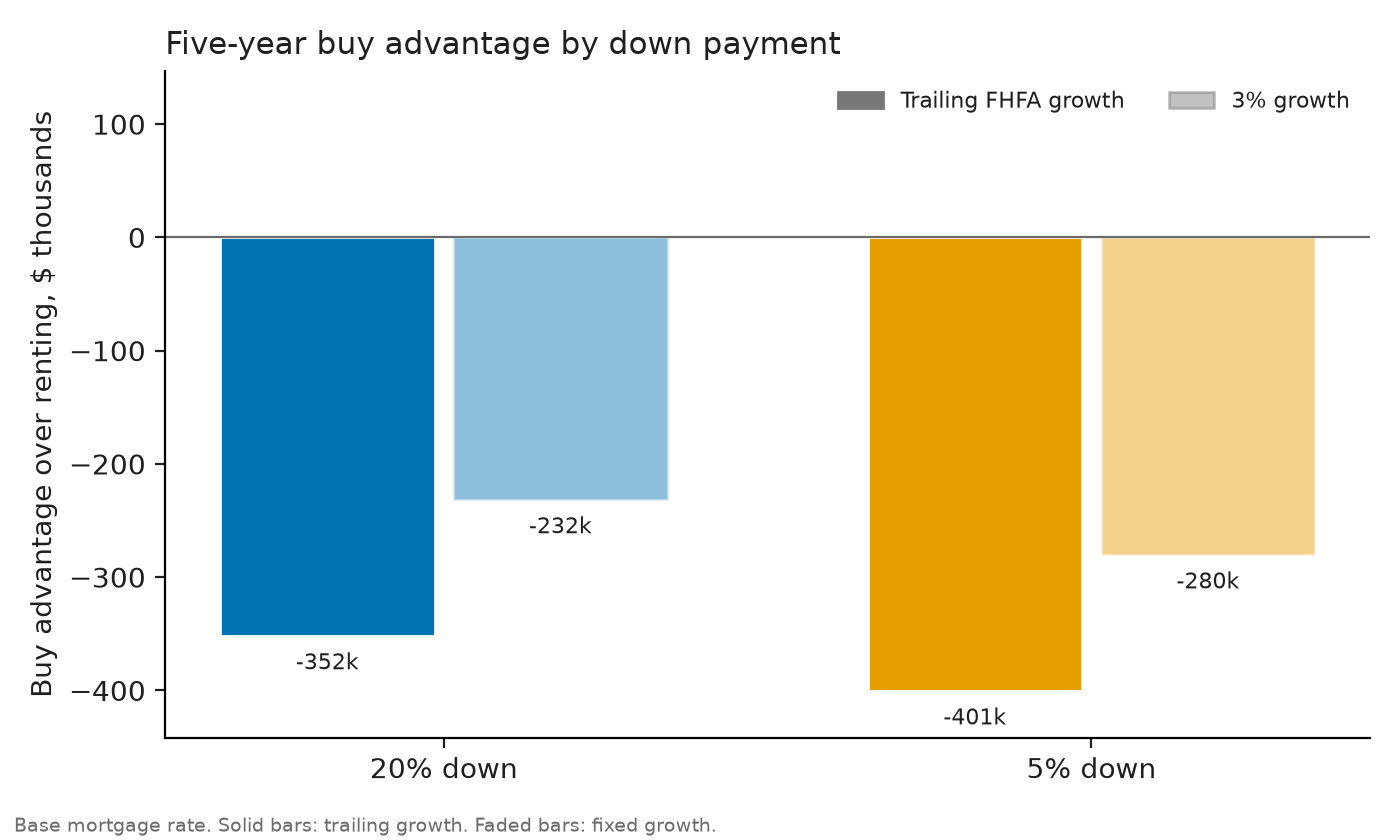
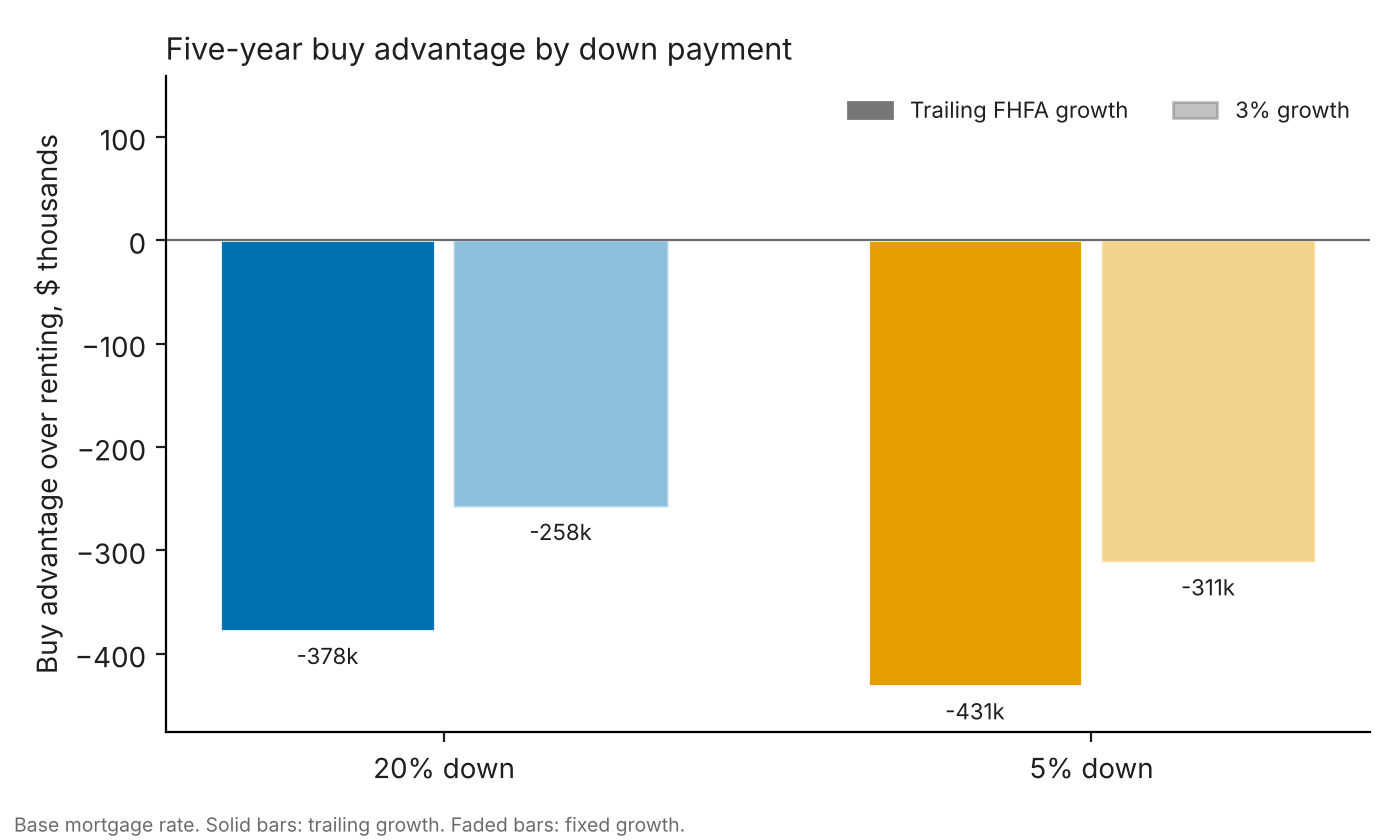
Update memo to Nov 2026 mortgage rate; add rate fetcher and config
- Replace the 6.5% placeholder with Freddie Mac PMMS 30-year rate of 7.18%
  (week of 2026-11-05). Buying trails renting by ~$378k (20% down) and ~$431k
  (5% down); break-even growth 8.4% and 9.4%.
- Regenerate figures and sensitivity grids at the new rate.
- Add src/fetch_rates.py with tests on a fixture; live file not yet checked.
- Add config/household.yaml and config/metros.yaml (documentation; not read by code yet).
- Update README status and structure; list known gaps.

Claude-Session: https://claude.ai/code/session_019DYqhwgPMDWcjLxNAEEHVK

diff --git a/src/fetch_rates.py b/src/fetch_rates.py
@@ -1,0 +1,99 @@
+"""Fetch the latest 30-year fixed mortgage rate from Freddie Mac's Primary Mortgage Market Survey.
+
+The survey is national and weekly. The rate is returned as an annual decimal (0.0718 for 7.18%),
+which is the form model.py expects.
+
+Usage:
+    python src/fetch_rates.py                       # downloads the PMMS history file
+    python src/fetch_rates.py --csv PMMS_history.csv  # reads a file you already saved
+
+Writes data/raw/pmms_30yr_latest.json. The raw directory is gitignored.
+
+Caveat: the parser assumes the history CSV has a date column and a 30-year rate column
+(a header containing "30"). It is unit-tested on a fixture. It has not been checked
+against the live file in this environment.
+"""
+
+from __future__ import annotations
+
+import argparse
+import csv
+import json
+from datetime import datetime
+from pathlib import Path
+from typing import Iterable
+
+PMMS_HISTORY_URL = "https://www.freddiemac.com/pmms/docs/PMMS_history.csv"
+OUT_PATH = Path(__file__).resolve().parents[1] / "data" / "raw" / "pmms_30yr_latest.json"
+
+
+def _find_column(header: list[str], predicate) -> int:
+    for i, name in enumerate(header):
+        if predicate(name.strip().lower()):
+            return i
+    raise ValueError(f"no matching column in header: {header}")
+
+
+def _parse_date(raw: str) -> datetime:
+    raw = raw.strip()
+    for fmt in ("%Y-%m-%d", "%m/%d/%Y", "%m/%d/%y"):
+        try:
+            return datetime.strptime(raw, fmt)
+        except ValueError:
+            continue
+    raise ValueError(f"unrecognized date: {raw!r}")
+
+
+def latest_30yr(lines: Iterable[str]) -> dict:
+    """Return {'date': 'YYYY-MM-DD', 'rate': annual decimal} for the most recent 30-year reading."""
+    reader = csv.reader(lines)
+    header = next(reader)
+    date_col = _find_column(header, lambda n: n.startswith("date") or n == "week")
+    rate_col = _find_column(header, lambda n: "30" in n and ("rate" in n or "fixed" in n or "y" in n))
+
+    best_date, best_rate = None, None
+    for row in reader:
+        if len(row) <= max(date_col, rate_col) or not row[rate_col].strip():
+            continue
+        try:
+            rate = float(row[rate_col]) / 100.0
+            date = _parse_date(row[date_col])
+        except ValueError:
+            continue
+        if best_date is None or date > best_date:
+            best_date, best_rate = date, rate
+
+    if best_date is None:
+        raise ValueError("no 30-year rate readings found")
+    return {"date": best_date.strftime("%Y-%m-%d"), "rate": best_rate, "series": "30-year fixed, PMMS"}
+
+
+def fetch_lines(url: str, timeout: int = 60) -> list[str]:
+    import requests
+
+    resp = requests.get(url, timeout=timeout)
+    resp.raise_for_status()
+    return resp.text.splitlines()
+
+
+def main(argv: list[str] | None = None) -> None:
+    parser = argparse.ArgumentParser(description=__doc__, formatter_class=argparse.RawDescriptionHelpFormatter)
+    parser.add_argument("--csv", type=Path, help="local PMMS history CSV (skips the download)")
+    parser.add_argument("--url", default=PMMS_HISTORY_URL, help="PMMS history CSV URL")
+    parser.add_argument("--out", type=Path, default=OUT_PATH)
+    args = parser.parse_args(argv)
+
+    if args.csv:
+        lines = args.csv.read_text().splitlines()
+    else:
+        lines = fetch_lines(args.url)
+
+    result = latest_30yr(lines)
+    args.out.parent.mkdir(parents=True, exist_ok=True)
+    args.out.write_text(json.dumps(result, indent=2))
+    print(f"30-year fixed rate as of {result['date']}: {result['rate']:.2%}")
+    print(f"wrote {args.out}")
+
+
+if __name__ == "__main__":
+    main()

diff --git a/tests/test_fetch_rates.py b/tests/test_fetch_rates.py
@@ -1,0 +1,42 @@
+import sys
+from pathlib import Path
+
+import pytest
+
+sys.path.insert(0, str(Path(__file__).resolve().parents[1] / "src"))
+
+from fetch_rates import latest_30yr  # noqa: E402
+
+FIXTURE = [
+    "Date,30Y Rate,15Y Rate",
+    "2026-10-22,7.32,6.82",
+    "2026-10-29,7.24,6.60",
+    "2026-11-05,7.18,6.57",
+    "2026-10-15,,6.50",
+]
+
+
+def test_returns_latest_30yr_rate_as_decimal():
+    result = latest_30yr(FIXTURE)
+    assert result["date"] == "2026-11-05"
+    assert result["rate"] == pytest.approx(0.0718)
+
+
+def test_ignores_blank_rate_rows_and_unsorted_input():
+    shuffled = [FIXTURE[0], FIXTURE[3], FIXTURE[2], FIXTURE[1]]
+    assert latest_30yr(shuffled)["date"] == "2026-11-05"
+
+
+def test_accepts_slash_dates():
+    lines = ["Week,30-Year Fixed Rate", "11/05/2026,7.18", "10/29/2026,7.24"]
+    assert latest_30yr(lines)["date"] == "2026-11-05"
+
+
+def test_raises_when_no_30yr_column():
+    with pytest.raises(ValueError):
+        latest_30yr(["Date,15Y Rate", "2026-11-05,6.57"])
+
+
+def test_raises_when_no_readings():
+    with pytest.raises(ValueError):
+        latest_30yr(["Date,30Y Rate", "2026-11-05,"])

diff --git a/README.md b/README.md
@@ -2,7 +2,7 @@
 
 A portfolio project: a decision memo that frames a decision, weighs options with public data, and recommends one.
 
-**Status:** scoping. No code yet.
+**Status:** Los Angeles County is modeled and drafted in `memo/memo.md`, using the Freddie Mac rate for the week of November 5, 2026 (7.18%). The memo is a draft. Washington DC, Chicago, and New York are not started.
 
 ## Decision question
 
@@ -11,6 +11,10 @@ Over a five-year horizon, should a household earning $120,000 a year in a given 
 - **Options:** (A) rent a comparable unit; (B) buy at the metro's median price with 20% down; (C) buy with 5% down, which adds mortgage insurance and a higher rate.
 - **Criteria:** net cost over five years, cash needed up front, sensitivity to rates and price growth, and flexibility if the household has to move.
 - **Recommendation:** choose one option per metro, state the break-even conditions, and show how the answer changes under plausible ranges.
+
+## Result so far (Los Angeles County)
+
+At 7.18%, renting comes out ahead by about $378,000 over five years with 20% down, and about $431,000 with 5% down. Buying would need about 8.4% a year price growth (20% down) to break even, against trailing growth of 0.02%. Details and limitations are in the memo.
 
 ## Assumptions
 
@@ -22,7 +26,7 @@ Over a five-year horizon, should a household earning $120,000 a year in a given 
 
 - **ACS (Census):** median home value and median gross rent by county.
 - **FHFA House Price Index:** purchase-only quarterly price trends by metropolitan division.
-- **Freddie Mac PMMS:** weekly mortgage rates.
+- **Freddie Mac PMMS:** weekly mortgage rates. `src/fetch_rates.py` reads the latest 30-year rate.
 
 ## Metros and geographies
 
@@ -35,32 +39,44 @@ Each metro uses one geography for both sources, so the price trend and the home 
 | Chicago | 16984, Chicago-Naperville-Evanston (MSAD) | TBD |
 | New York | TBD | TBD |
 
-FHFA publishes the large metros as metropolitan divisions, so its IDs don't match the CBSA codes. The Chicago division ID above is from FHFA's series list, not the CBSA code (16980). Confirm each ID and county list against the Census delineation file before use.
+FHFA publishes the large metros as metropolitan divisions, so its IDs don't match the CBSA codes. The Chicago division ID above is from FHFA's series list, not the CBSA code (16980). Confirm each ID and county list against the Census delineation file before use. `config/metros.yaml` holds the same table.
 
-## Planned structure
+## Structure
 
 ```
 decision-memo/
 ├── README.md
 ├── config/
-│   ├── household.yaml      # income, down payment, loan terms
-│   └── metros.yaml         # CBSA codes and names
+│   ├── household.yaml      # income, down payments, loan terms, rate, labeled assumptions (documentation; not read by code yet)
+│   └── metros.yaml         # metro geographies (documentation; not read by code yet)
 ├── data/
 │   ├── raw/                # downloads, gitignored
-│   └── processed/
+│   └── processed/          # sensitivity grids
 ├── src/
-│   ├── fetch_acs.py
-│   ├── fetch_fhfa.py
-│   ├── fetch_rates.py
+│   ├── fetch_acs.py        # ACS median value and rent
+│   ├── fetch_fhfa.py       # FHFA metro price index
+│   ├── fetch_rates.py      # latest Freddie Mac 30-year rate
 │   ├── model.py            # rent vs buy cost model
 │   ├── sensitivity.py
 │   └── figures.py
 ├── tests/
-│   └── test_model.py
+│   ├── test_fetch_acs.py
+│   ├── test_fetch_fhfa.py
+│   ├── test_fetch_rates.py
+│   ├── test_model.py
+│   └── test_sensitivity.py
 └── memo/
     ├── memo.md
     └── figures/
 ```
+
+The model and figure scripts take the mortgage rate and file paths as command-line arguments. `config/` is not read yet. Wiring it in is a follow-up.
+
+## Known gaps
+
+- `fetch_rates.py` parses a PMMS history CSV and is covered by tests on a fixture. It has not been run against the live Freddie Mac file.
+- The memo's Los Angeles inputs (ACS values and the FHFA growth figure) are stated in the memo. Re-fetch them with the scripts above before the memo is published.
+- The DC, Chicago, and New York metros are not modeled.
 
 ## Memo outline
 
@@ -74,12 +90,6 @@ decision-memo/
 
 Figures: (1) five-year net cost by option for each metro; (2) break-even heatmap of price growth against mortgage rate.
 
-## Plan (three weekends)
-
-- **Weekend 1:** config, the LA data pipeline, and the core cost model with tests.
-- **Weekend 2:** sensitivity analysis, the other three metros, and both figures.
-- **Weekend 3:** memo writing, the recommendation, and README cleanup.
-
 ## Stack
 
-Python, with pandas for data work, requests for the Census API, and matplotlib for figures.
+Python, with requests for the Census, FHFA, and Freddie Mac downloads, and matplotlib for figures. Tests run with pytest.

diff --git a/memo/memo.md b/memo/memo.md
@@ -1,10 +1,10 @@
 # Rent or buy in Los Angeles County: a five-year decision
 
-**Status:** draft. The mortgage rate in this memo is a placeholder and must be replaced before publishing.
+**Status:** draft. Mortgage rate is the Freddie Mac Primary Mortgage Market Survey average for the week of November 5, 2026 (7.18%). Re-check the latest weekly rate before publishing.
 
 ## Recommendation
 
-For a household earning $120,000 a year in Los Angeles County, renting is the better choice over five years. At the median home value and the 6.5% placeholder mortgage rate, buying trails renting by about $352,000 with 20% down and about $401,000 with 5% down. Buying would only break even if home prices rose about 7.9% a year with 20% down, or 8.8% with 5% down. The county's trailing one-year price growth is 0.02%.
+For a household earning $120,000 a year in Los Angeles County, renting is the better choice over five years. At the median home value and the 7.18% mortgage rate, buying trails renting by about $378,000 with 20% down and about $431,000 with 5% down. Buying would only break even if home prices rose about 8.4% a year with 20% down, or 9.4% with 5% down. The county's trailing one-year price growth is 0.02%.
 
 The result holds across the rate range tested. Break-even growth with 20% down runs from 6.8% to 9.0% as rates move from 5% to 8%, and with 5% down from 7.6% to 10.1%.
 
@@ -22,18 +22,18 @@ Criteria: net cost over five years, cash needed up front, sensitivity to mortgag
 
 - **Home value and rent:** 2024 ACS 1-year estimates for Los Angeles County. Median home value is $866,500 and median gross rent is $2,003 a month.
 - **Price growth:** FHFA purchase-only quarterly index for Los Angeles-Long Beach-Glendale (division 31084). Trailing one-year growth is 0.02%.
-- **Mortgage rate:** 6.5%, placeholder. [Replace with the current Freddie Mac Primary Mortgage Market Survey rate.]
+- **Mortgage rate:** 7.18%, the 30-year fixed average in Freddie Mac's Primary Mortgage Market Survey for November 5, 2026. The survey is national and is used for every metro.
 - **Labeled assumptions:** property tax 1.1% of value a year, insurance 0.35%, maintenance 1%, buyer closing costs 3%, seller costs 6%, PMI 0.75% a year when down payment is under 20%, rent growth 3% a year, and a 4.5% return on invested cash.
 
 The renter invests the cash the buyer would have spent up front, along with any monthly difference between owner costs and rent. Both paths are compared at the end of five years.
 
 ## Results
 
-At the base case, the first-month owner cost is about $6,150 with 20% down, which is 62% of gross monthly income. With 5% down it is about $7,490, or 75%. Both exceed the 28% rule of thumb used for the affordability check. Renting costs $2,003, or about 20% of gross income.
+At the base case, the first-month owner cost is about $6,465 with 20% down, which is 65% of gross monthly income. With 5% down it is about $7,860, or 79%. Both exceed the 28% rule of thumb used for the affordability check. Renting costs $2,003, or about 20% of gross income.
 
 ![Five-year buy advantage by down payment](figures/fig1_buy_advantage_by_down.png)
 
-*Figure 1. Buy advantage over renting, at the base mortgage rate. Solid bars use trailing growth. Faded bars assume 3% growth, under which buying still trails by about $232,000 with 20% down.*
+*Figure 1. Buy advantage over renting, at the base mortgage rate. Solid bars use trailing growth. Faded bars assume 3% growth, under which buying still trails by about $258,000 with 20% down.*
 
 ## Sensitivity
 
@@ -58,9 +58,10 @@ Buying wins only in the top-right corner of the grid: high price growth and low 
 ```
 python src/fetch_acs.py --county-fips 06037 --year 2024
 python src/fetch_fhfa.py --cbsa 31084
-python src/model.py --mortgage-rate 0.065 --acs data/raw/acs_2024_06037.json --fhfa data/raw/fhfa_hpi_31084.json
+python src/fetch_rates.py --csv PMMS_history.csv
+python src/model.py --mortgage-rate 0.0718 --acs data/raw/acs_2024_06037.json --fhfa data/raw/fhfa_hpi_31084.json
 python src/sensitivity.py --acs data/raw/acs_2024_06037.json --fhfa data/raw/fhfa_hpi_31084.json
-python src/figures.py --acs data/raw/acs_2024_06037.json --fhfa data/raw/fhfa_hpi_31084.json --mortgage-rate 0.065
+python src/figures.py --acs data/raw/acs_2024_06037.json --fhfa data/raw/fhfa_hpi_31084.json --mortgage-rate 0.0718
 ```
 
-Sources: American Community Survey 1-year estimates, tables B25077 and B25064, via the Census API; FHFA House Price Index master file, purchase-only quarterly metro series; Freddie Mac Primary Mortgage Market Survey, to be added.
+Sources: American Community Survey 1-year estimates, tables B25077 and B25064, via the Census API; FHFA House Price Index master file, purchase-only quarterly metro series; Freddie Mac Primary Mortgage Market Survey, weekly 30-year fixed-rate average, November 5, 2026 release.
